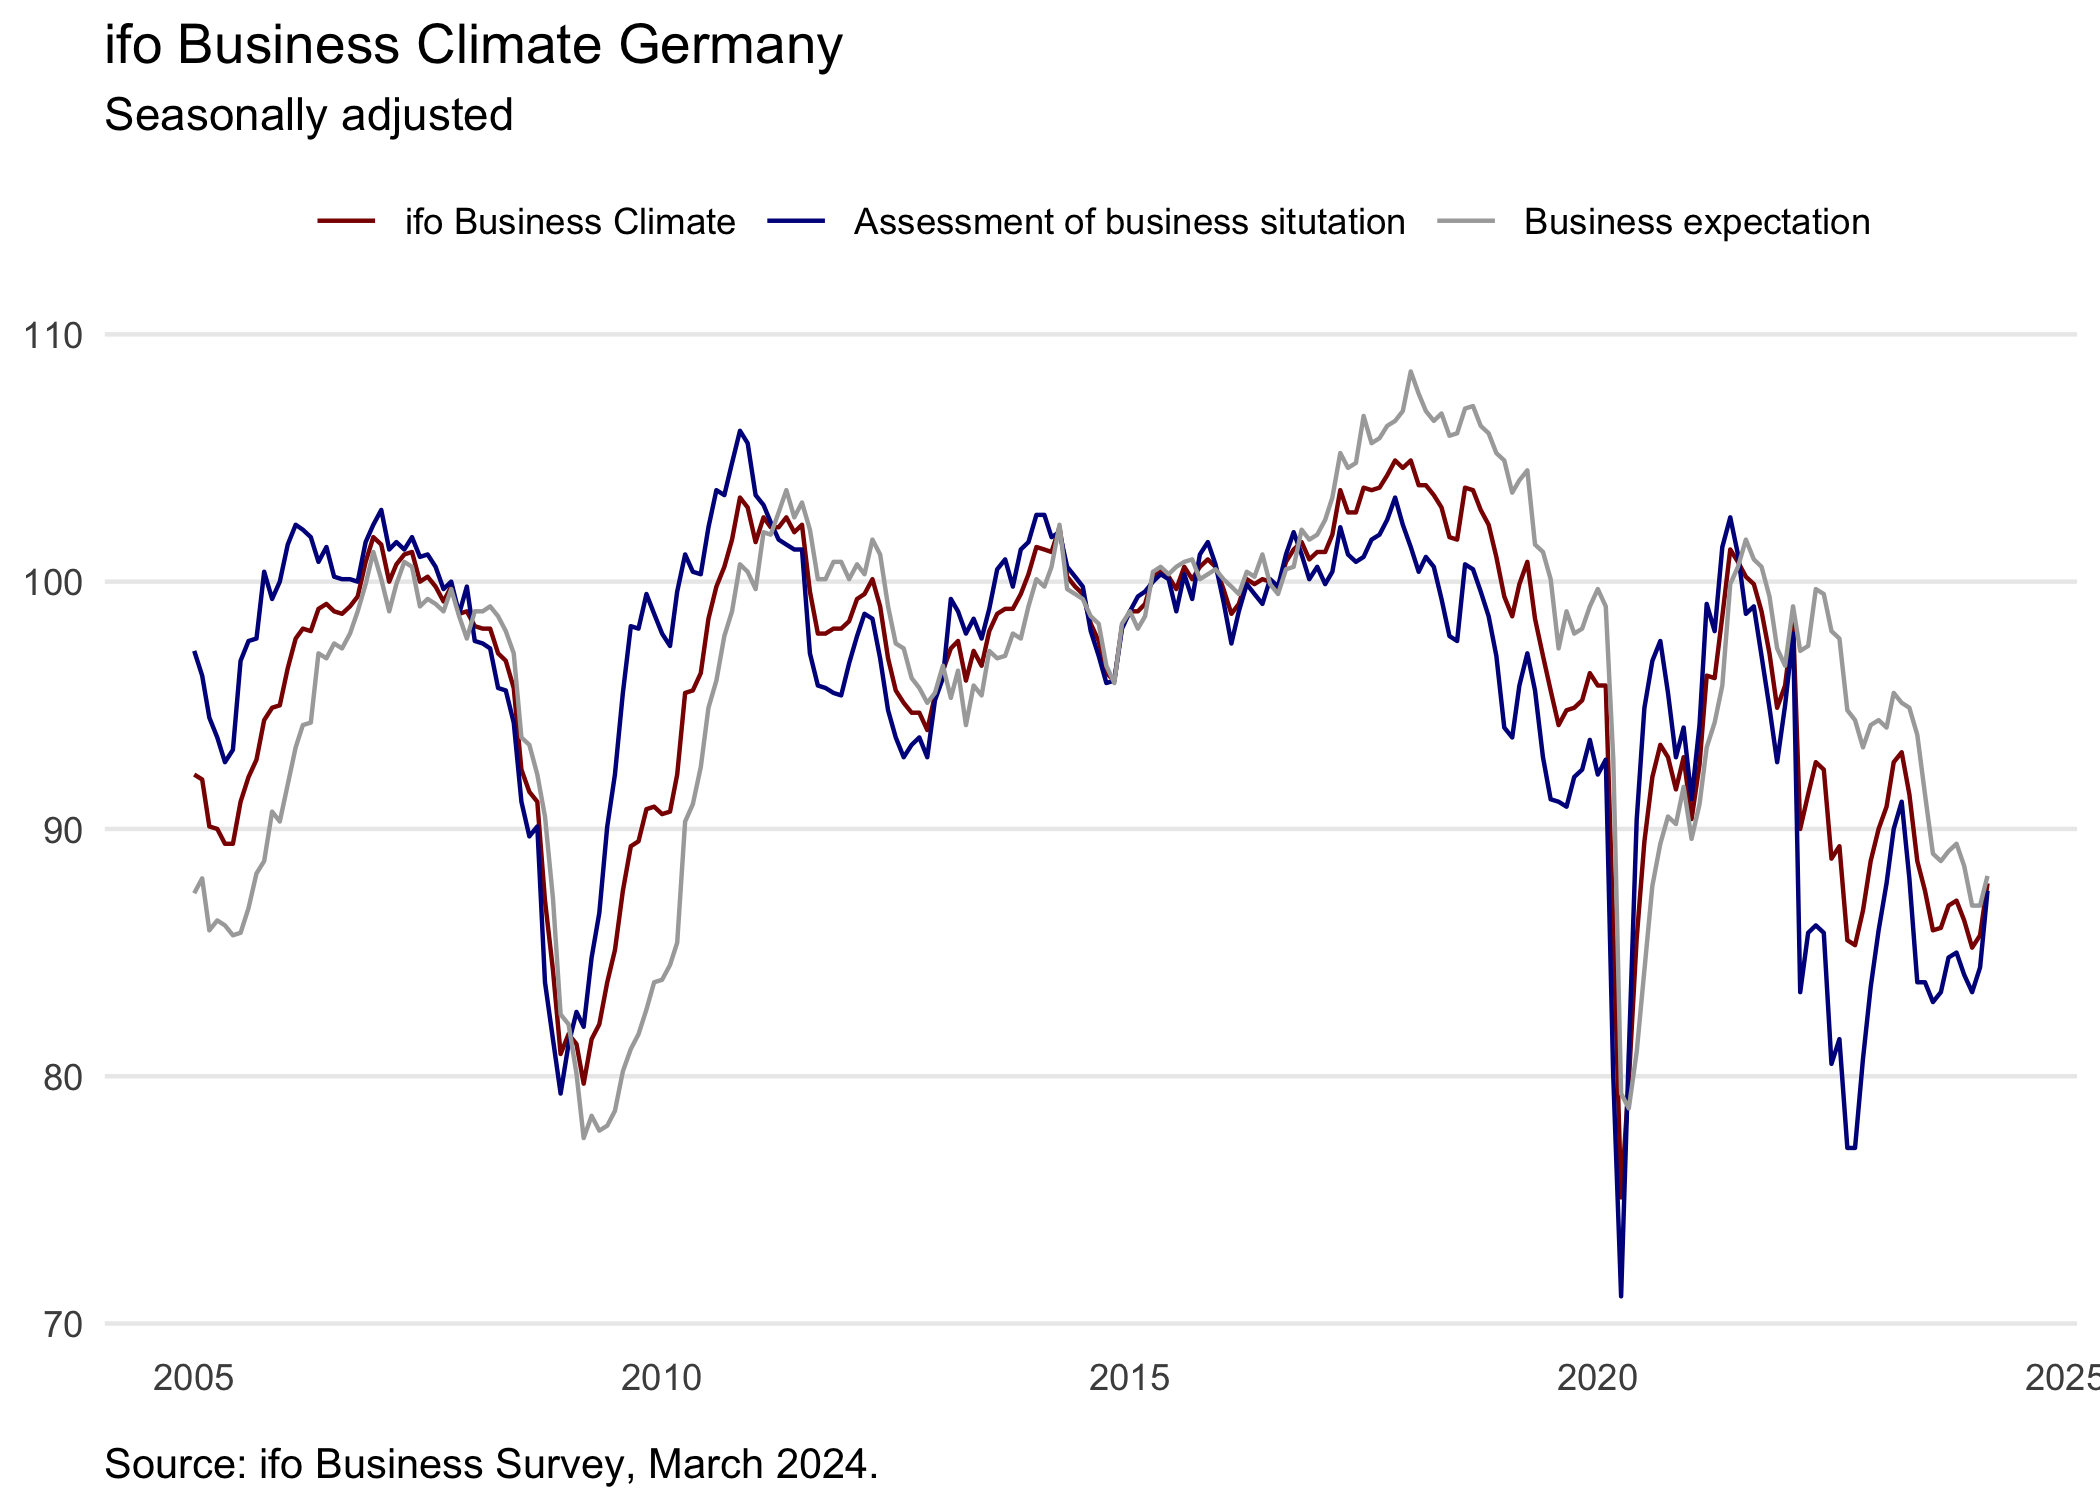
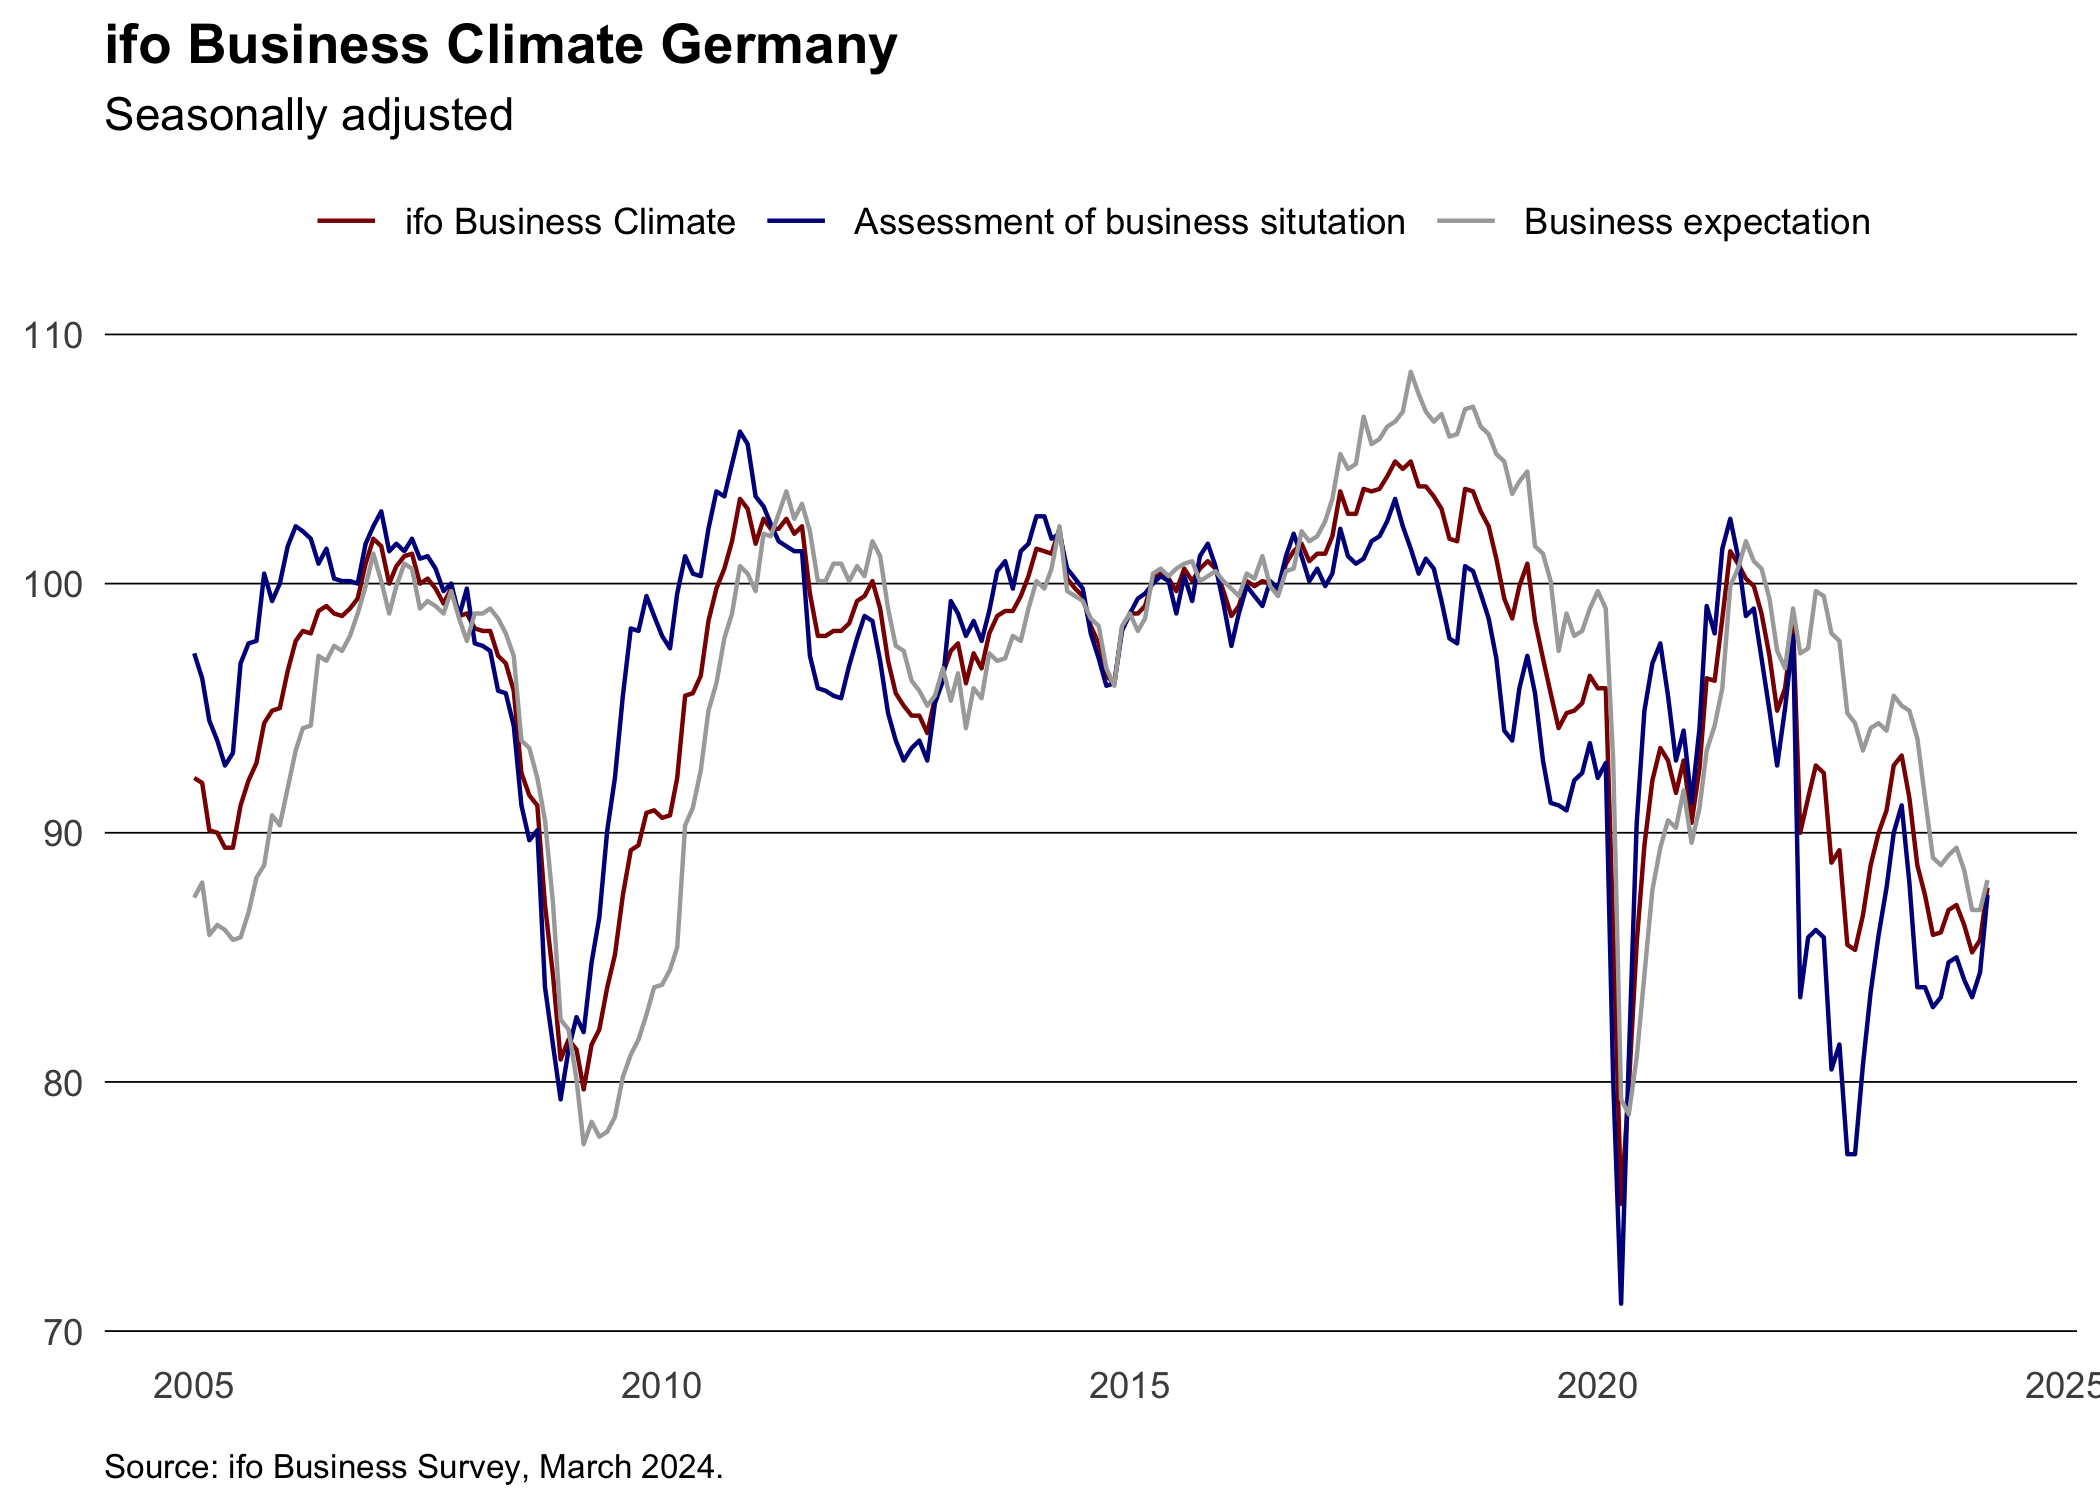
docs: make grid lines black, caption smaller and title bold

diff --git a/README.md b/README.md
@@ -61,12 +61,13 @@ climate |>
   theme(
     legend.title = element_blank(),
     legend.position = "top",
+    plot.title = element_text(face = "bold"),
     plot.caption = element_text(
-      hjust = 0, vjust = 0, size = 10, margin = margin(10, 0, 0, 0)
+      hjust = 0, vjust = 0, size = 8, margin = margin(10, 0, 0, 0)
     ),
+    panel.grid.major.y = element_line(color = "black", linewidth = 0.2),
     panel.grid.major.x = element_blank(),
-    panel.grid.minor.x = element_blank(),
-    panel.grid.minor.y = element_blank()
+    panel.grid.minor = element_blank()
   ) +
   labs(
     title = "ifo Business Climate Germany", subtitle = "Seasonally adjusted",
